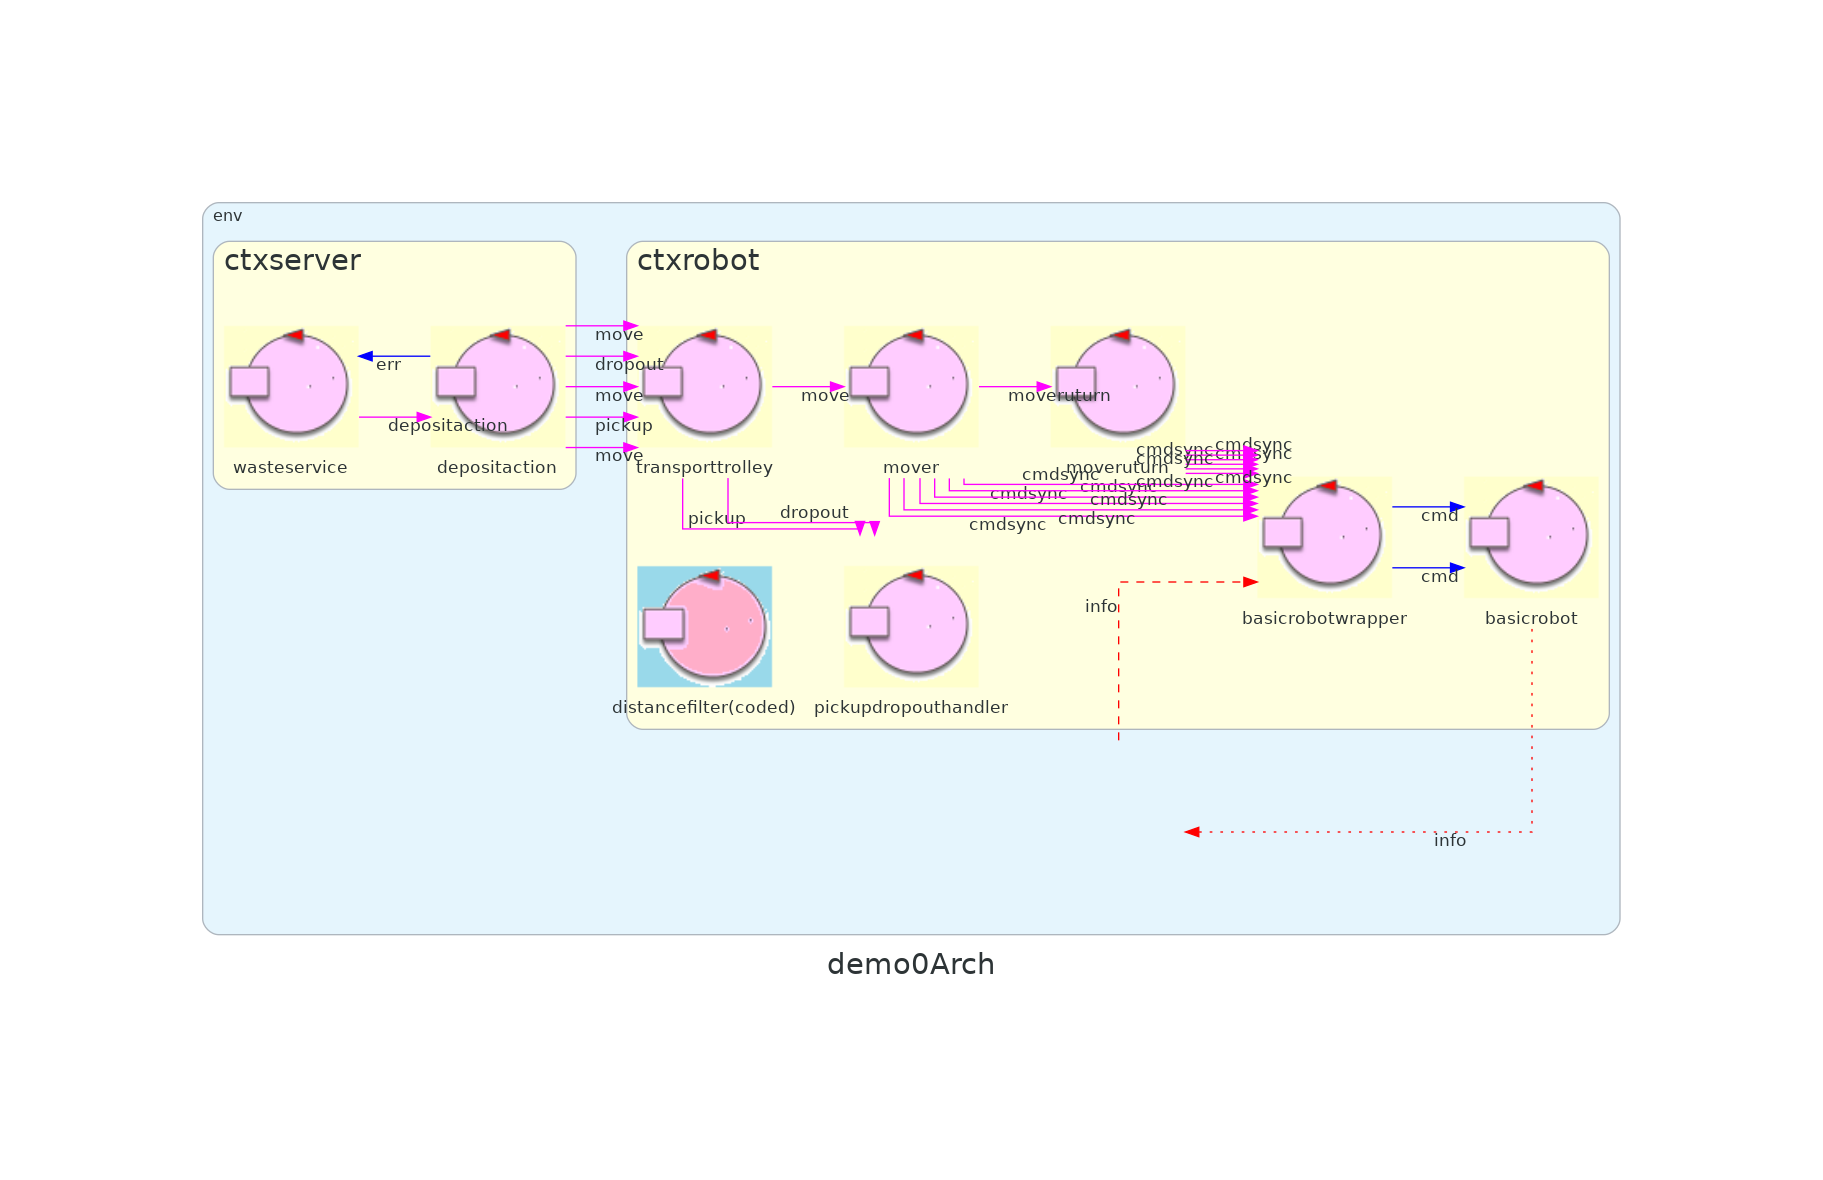
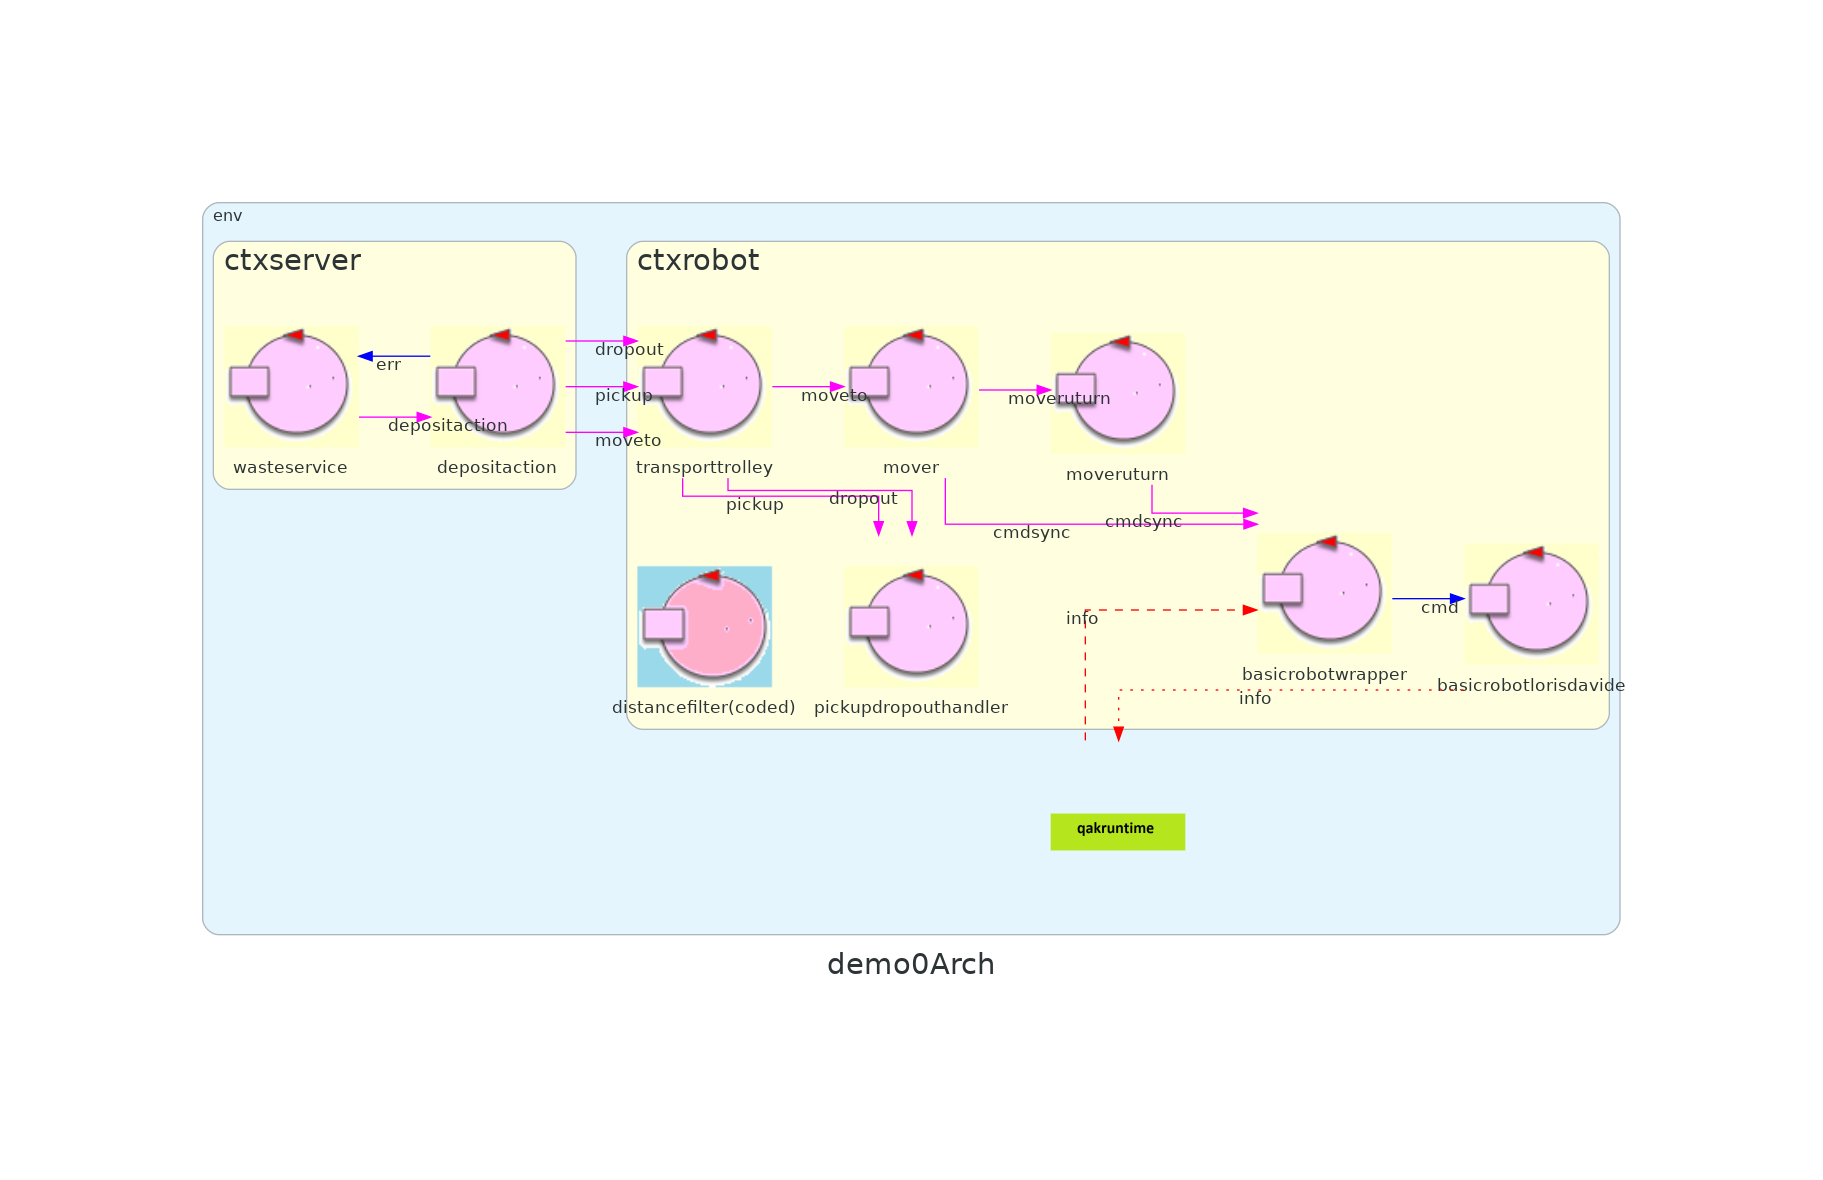
minor improvements to docs

diff --git a/sprint1/sprint1.html b/sprint1/sprint1.html
@@ -372,8 +372,10 @@ Reply cmdanswer   	: cmdanswer(RESULT)</pre>
 <div class="remark" style="background-color: #c3fbe8;">
     <h3>Riassunto situazione attuale:</h3>
     <h6>Architettura logica:</h6>
-    <img class="centerimg" style="max-width: 700px;" src="docs/_images/logic_architecture_3.png"/>
+    <img class="centerimg" style="max-width: 1300px;" src="QakSprint1/demo0arch.png"/>
     <p style="width: 100%; text-align: right;"><a href="../docs_common/Legenda.html">Legenda</a></p>
+    <h6>Note</h6>
+    <small><p><i>Basicrobot</i> è stato leggermente modificato rispetto alla versione iniziale per renderlo più stabile, ed è per questo stato rinominato in <i>basicrobotlorisdavide</i></p></small>
     <h6>QAK</h6>
     <a href="QakSprint1/src/Prototype/demo0.qak">Metamodello eseguibile QAK</a>
     <h6><p>Testplan:</p></h6>
